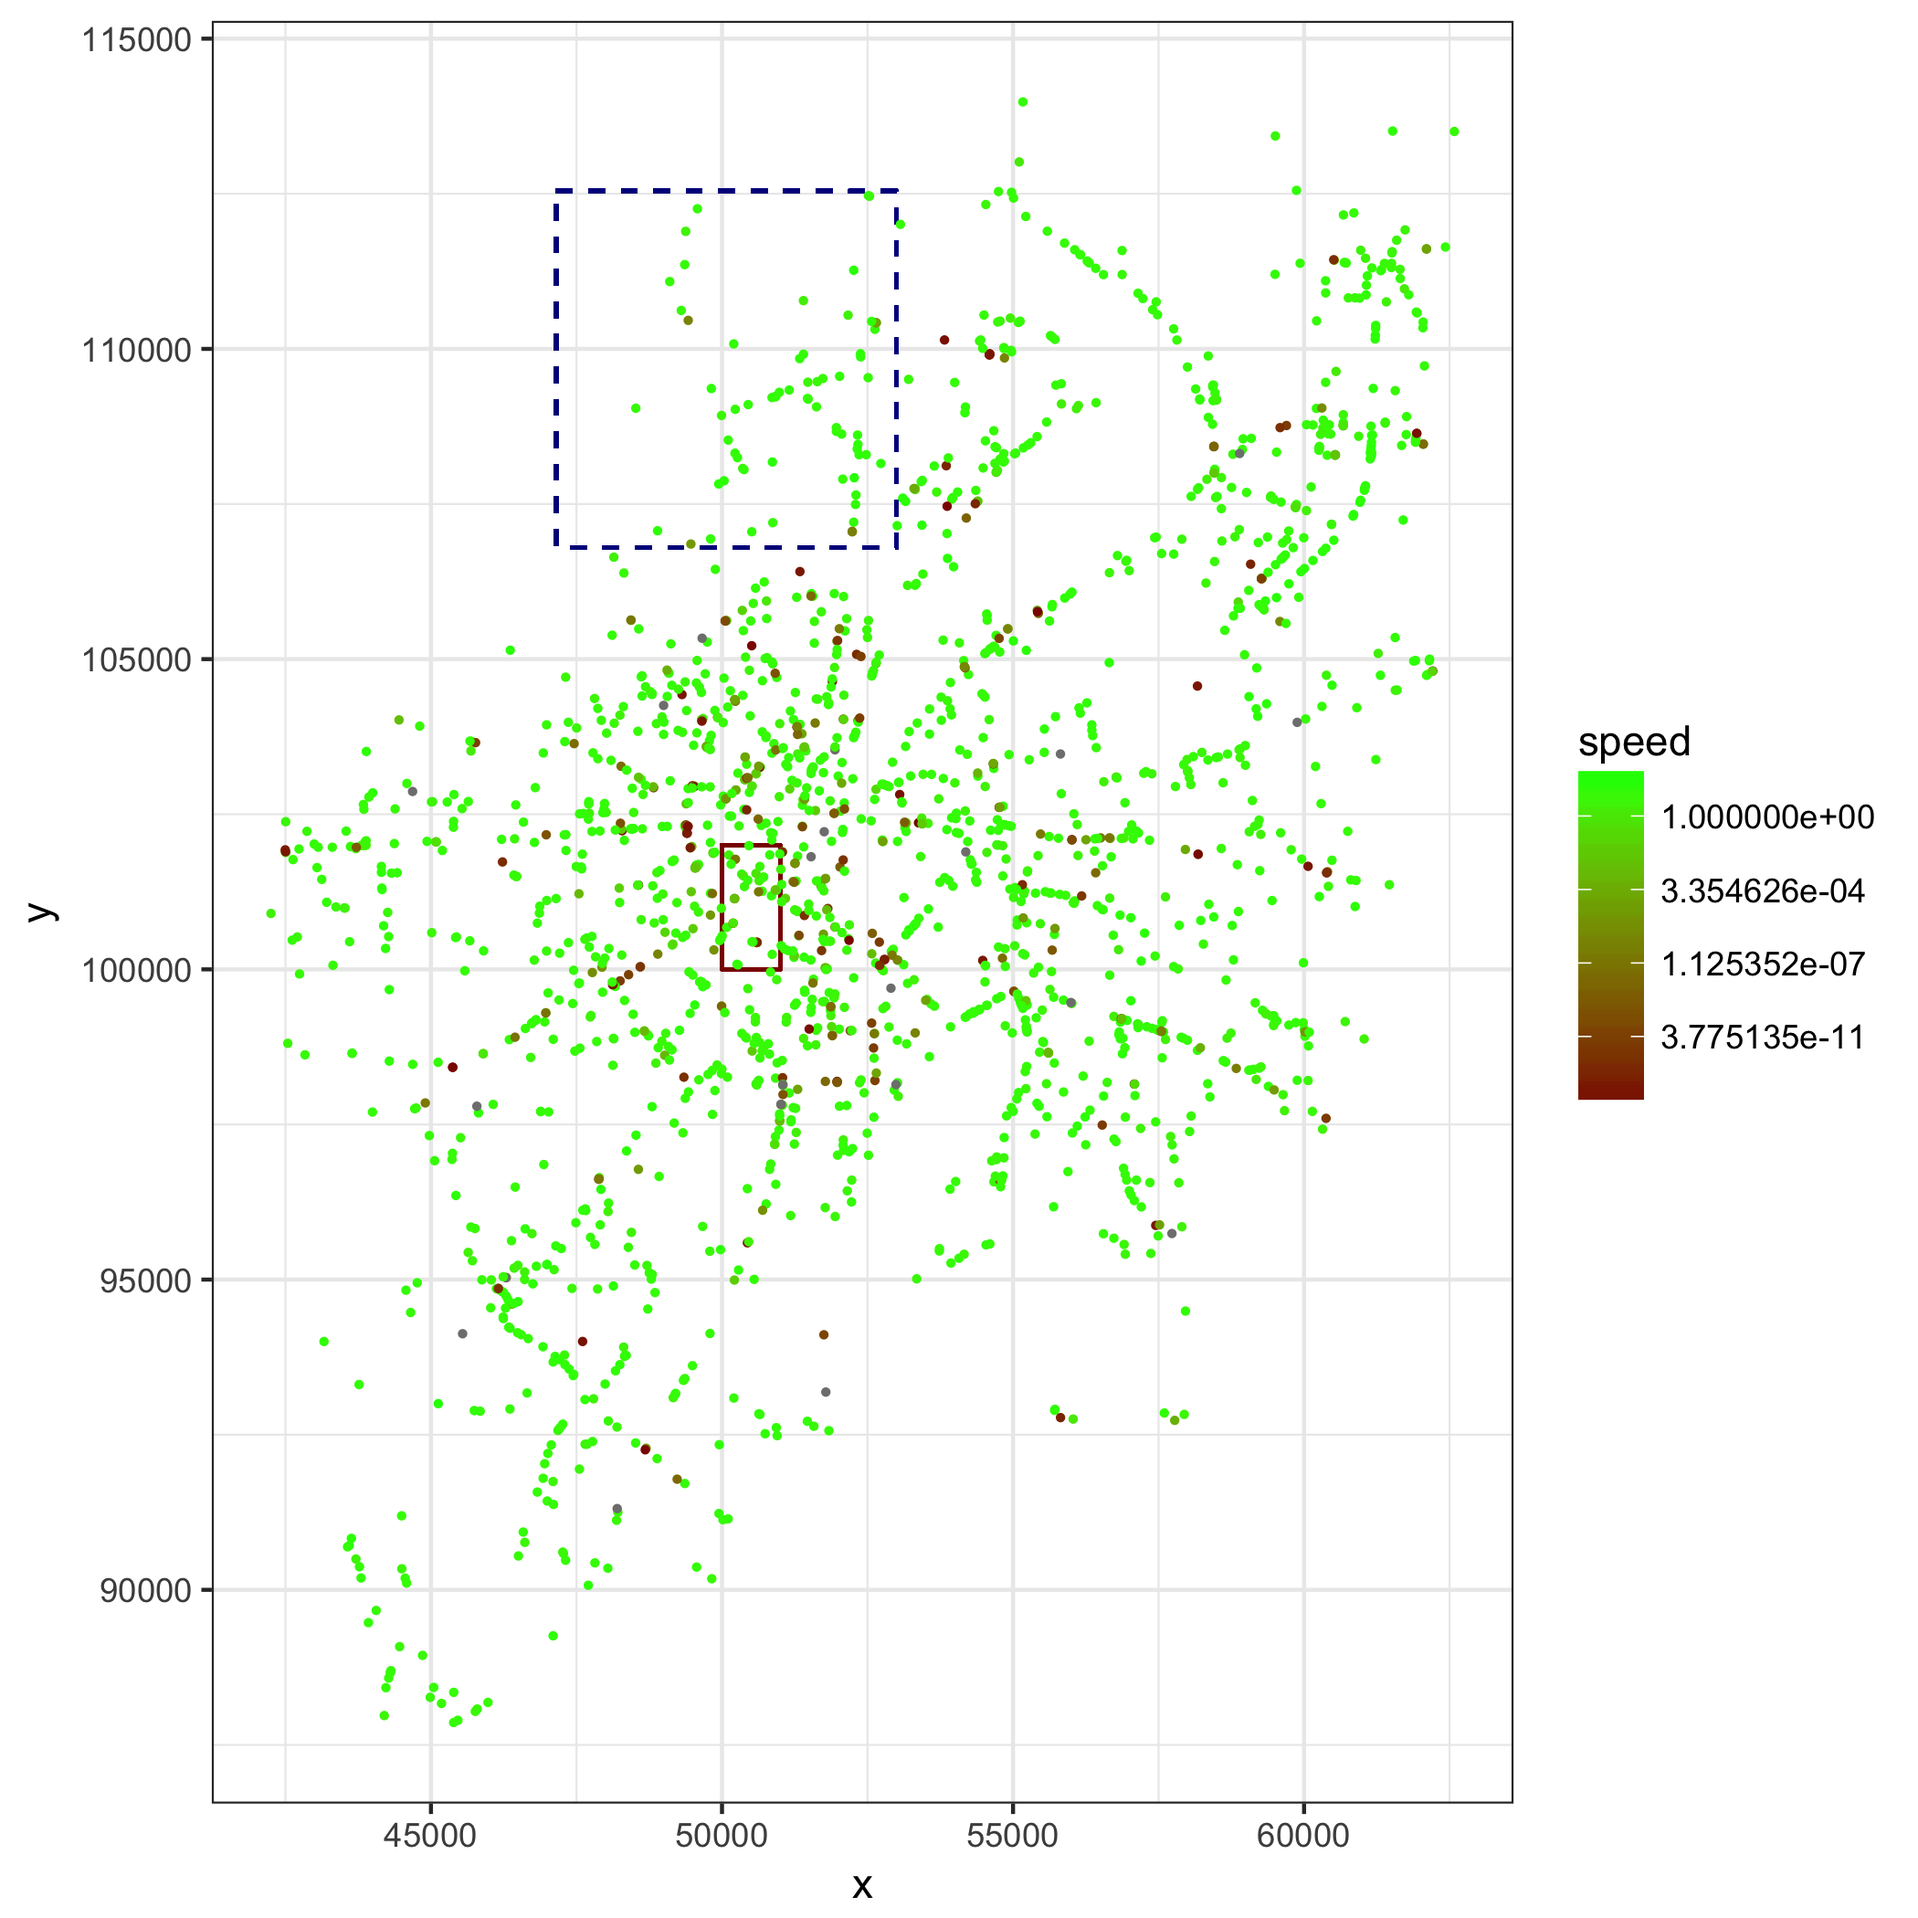
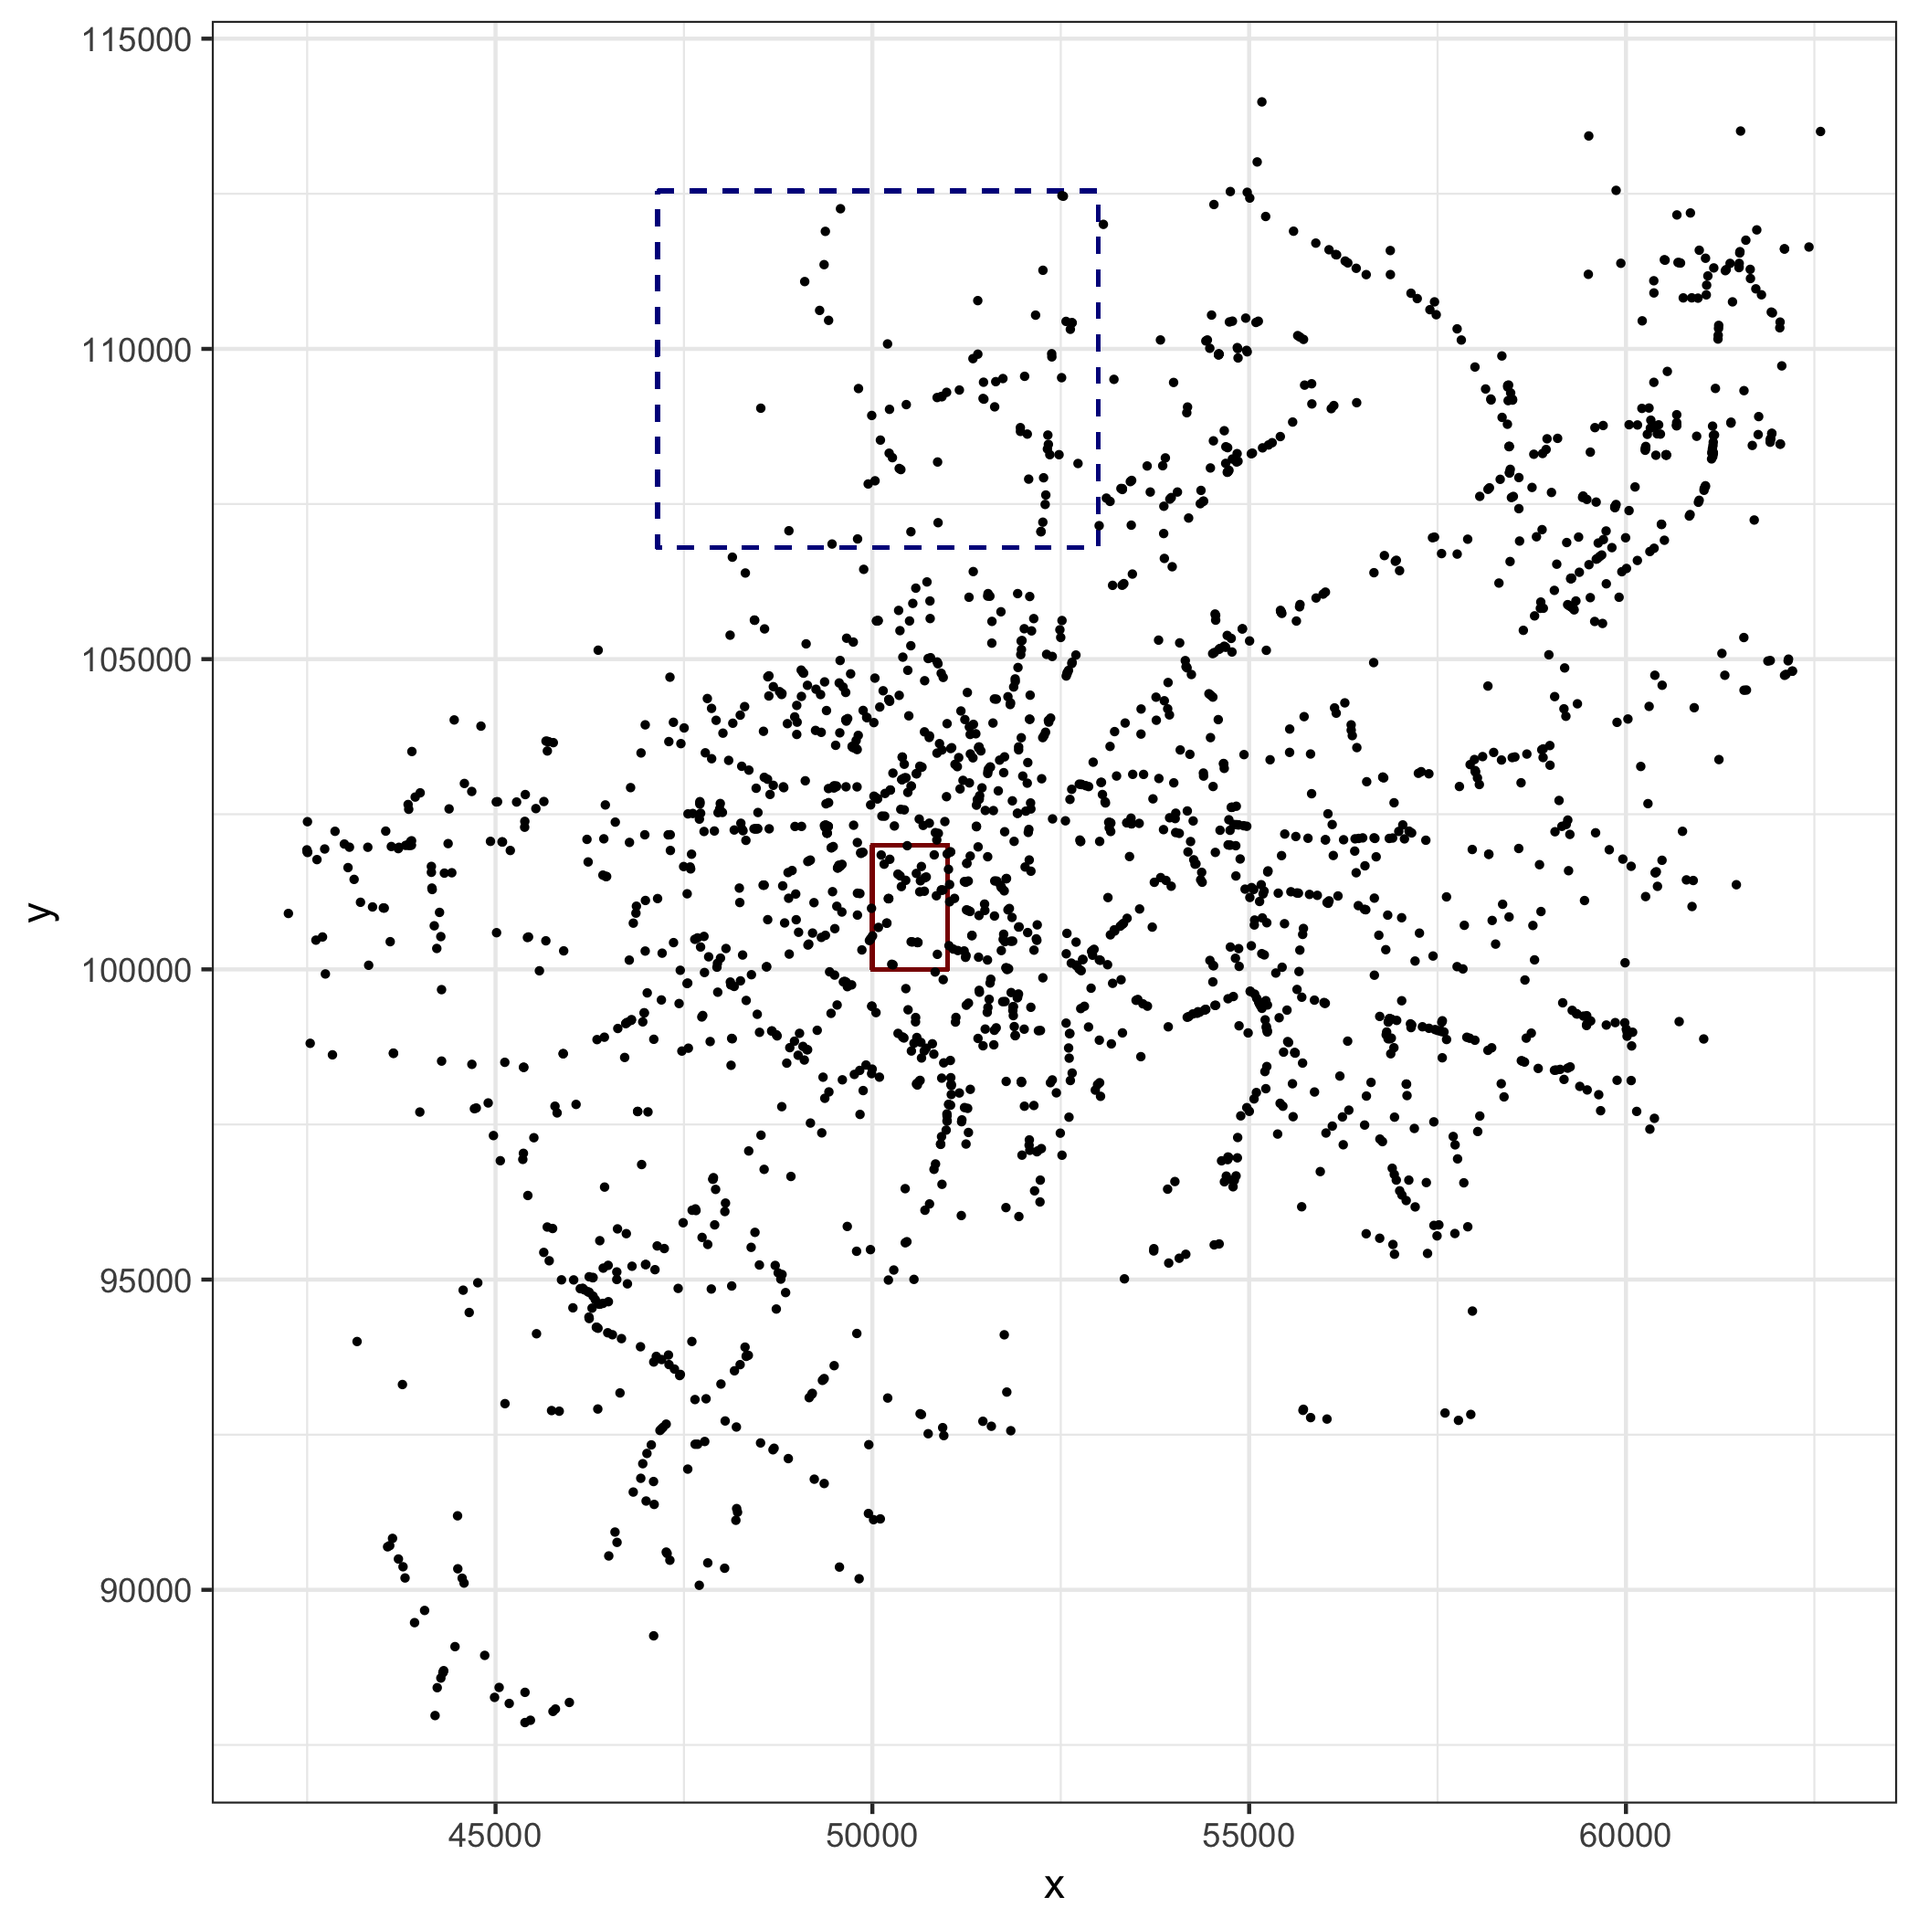
Update figures and descriptions

diff --git a/Thesis/rpithes-short.tex b/Thesis/rpithes-short.tex
@@ -14,6 +14,7 @@
 \documentclass{thesis}
 \usepackage{graphicx}   % if you want to include graphics files
 \usepackage{pdflscape}
+\usepackage{rotating}
 \usepackage{caption}
 \usepackage{subcaption}
 
@@ -298,7 +299,7 @@
     Apache Kafka running in the cloud. The user would then write a Spark Streaming program to create a DStream
     to receive the stream of all data coming from the vehicles and apply a map operation to extract only the 
     relevant values from the flood of incoming data. To perform an aggregate analysis of the data, the user would then
-    apply a reduce operation, for example to get average fuel economy in real time for a given region or set of
+    apply a reduce (\verb|reduceByKey|) operation, for example to get average fuel economy in real time for a given region or set of
     regions. While the naive example is extremely inefficient in terms of bandwidth consumption and compute resource
     utilization, the programming model is extremely simple and convenient. All the end-user writing the analysis
     has to do is connect, map, reduce, and output the results (or perform further analyses). 
@@ -401,17 +402,15 @@
     Sensor producers, mappers, reducers, simulated Clusterhead relays, query managers, and simulated middleware uplinks.
     The core simulation software is implemented in Scala using the Akka actor framework.
     %SECONDPASS: do a system diagram for the simulator
-    \begin{landscape}
-        \begin{figure}
-            \centering
-            \includegraphics[width=\textwidth]{binImages/simulator-sequence.png}
-            %TODO (meeting): increase font size and increase size of figure to be as large as will fit in margin
-            \caption{A sequence diagram showing the high-level interactions of
-            the Spindle simulator components. A Postgres database stores the
-            simulation configurations and pre-computed velocity and connectivity
-            data, as well as simulation results.}
-        \end{figure}
-    \end{landscape}
+    \begin{sidewaysfigure}
+        \centering
+        \includegraphics[width=\textheight]{binImages/simulator-sequence.png}
+        %TODO (meeting): increase font size and increase size of figure to be as large as will fit in margin
+        \caption{A sequence diagram showing the high-level interactions of
+        the Spindle simulator components. A Postgres database stores the
+        simulation configurations and pre-computed velocity and connectivity
+        data, as well as simulation results.}
+    \end{sidewaysfigure}
 
 \subsection{SpindleSim}
     The Spindle simulator (SpindleSim) is implemented in several thousand lines of Scala \cite{scala} 
@@ -492,12 +491,14 @@
     \begin{figure}
         \centering
         \includegraphics[scale=.2]{binImages/cars.png}
-        \caption{A Snapshot of Active Vehicles in VEINS Traces with Selected Regions Highlighted}
+        \caption{A Snapshot of Active Vehicles in VEINS Traces with Selected Regions Highlighted.
+                The dense region is marked by the dark red box near the center of the graph. The
+                sparse region is marked by the dashed blue box towards the center-top of the graph.}
         \label{fig:regions}
     \end{figure}
     \paragraph{Sparse Region}
         The sparse region is transited by 148 distinct vehicles over the course of the simulation and defines a bounding
-        box from $(40000, 106800)$ to $(53000, 114000)$. The sparse region covers an area on the outskirts of the city,
+        box from $(47150, 106801)$ to $(53000, 112545)$. The sparse region covers an area on the outskirts of the city,
         with a relatively low density of vehicles. The sparse region is illustrated by a purple box in \ref{fig:regions}.
     \paragraph{Dense Region}
         The dense region defines a bounding box from $(50000, 100000)$ to $(51000, 102000)$ and is transitied by
@@ -560,7 +561,7 @@
    sizes have better performance than smaller window sizes, and that, critically, the use of clustering
    results in a 50-75\% savings in bandwidth.
 
-    \begin{figure}
+    \begin{sidewaysfigure}
         \centering
         \begin{subfigure}[h]{0.45\textwidth}
             \centering
@@ -583,8 +584,8 @@
             vehicle clusters. Also illustrates how data reduction is affected by regional vehicle
             density - areas of high vehicle density can take better advantage of clustering to get more savings.}
         \label{results:speedsum}
-    \end{figure}
-    \begin{figure}
+    \end{sidewaysfigure}
+    \begin{sidewaysfigure}
         \begin{subfigure}[h]{0.45\textwidth}
             \centering
             \includegraphics[width=\textwidth]{binImages/geoMapped-runplot.pdf}
@@ -605,7 +606,26 @@
             vehicle clusters. Also illustrates how data reduction is affected by regional vehicle
             density - areas of high vehicle density can take better advantage of clustering to get more savings.}
         \label{results:geomapped}
-    \end{figure}
+    \end{sidewaysfigure}
+
+    \begin{sidewaysfigure}
+        \begin{subfigure}[h]{0.45\textwidth}
+            \centering
+            \includegraphics[width=\textwidth]{binImages/geoFiltered-runplot.pdf}
+            \caption{The total number of bytes sent to the middleware,
+            averaged over multiple trials for the geoFiltered map/reduce job.}
+        \end{subfigure}
+        \begin{subfigure}[h]{0.45\textwidth}
+            \centering
+            \includegraphics[width=\textwidth]{binImages/geoFiltered-runplot-normalized.pdf}
+            \caption{shows the scaled number of bytes sent to the middleware in a given region and window size
+            configuration where y=1 indicates the number of bytes sent without clustering for a given region
+            and reduce window size.}
+        \end{subfigure}
+        %TODO: caption
+    \end{sidewaysfigure}
+
+    %TODO: figure comparing all queries' total data in one place
 
     The results make logical sense. A higher density region allows for better clustering - more vehicles to a cluster.
     A larger window size results in a smaller number of transmissions from the reducers to the middleware, so even
@@ -613,6 +633,7 @@
     size is outweighed by the lower transmision frequency; this makes sense when one considers the inevitable boilerplate
     required in each message that gets wrapped around the changing values. Finally, the use of clusters makes sense for
     similar reasons to those of having larger window sizes - fewer overall messages are sent.
+
     %SECONDPASS: table of results
 
 \chapter{Conclusion}
